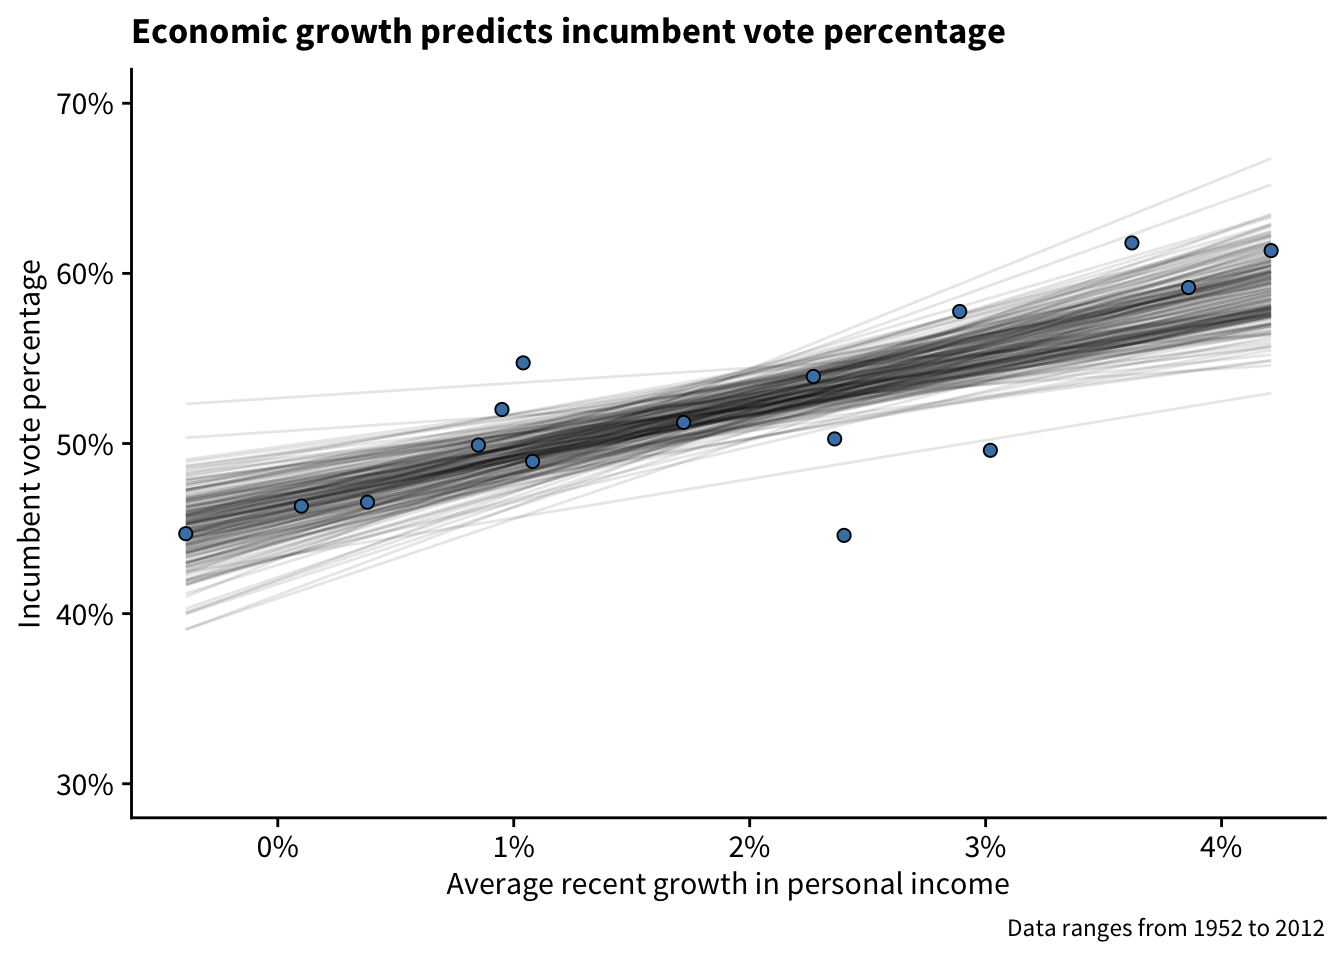
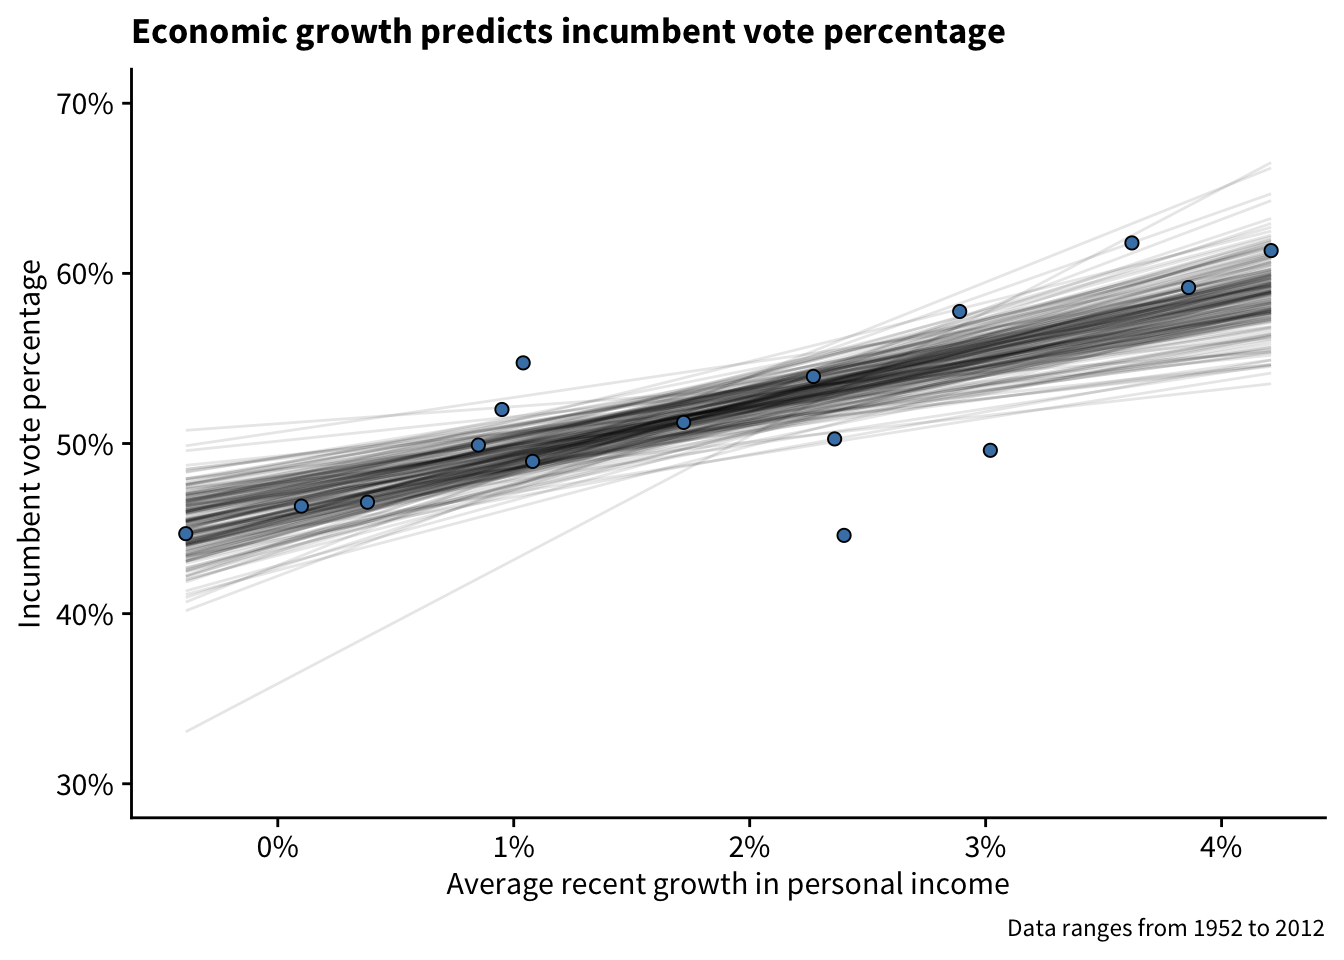
Edits

Changed region(s): [[0.125, 0.1562, 0.9688, 0.6562]]

diff --git a/_book/bias-and-variance.html b/_book/bias-and-variance.html
@@ -37,6 +37,7 @@
 <li><a class="" href="basic-probability-and-statistics.html"><span class="header-section-number">4</span> Basic Probability and Statistics</a></li>
 <li><a class="" href="statistical-inference.html"><span class="header-section-number">5</span> Statistical Inference</a></li>
 <li><a class="active" href="bias-and-variance.html"><span class="header-section-number">6</span> Bias and Variance</a></li>
+<li><a class="" href="basic-probability-and-statistics-1.html"><span class="header-section-number">7</span> Basic Probability and Statistics</a></li>
 </ul>
 
         <div class="book-extra">
@@ -230,7 +231,7 @@ Now let’s add in the random component. To every <span class="math inline">\(y\
 </div>
   <div class="chapter-nav">
 <div class="prev"><a href="statistical-inference.html"><span class="header-section-number">5</span> Statistical Inference</a></div>
-<div class="empty"></div>
+<div class="next"><a href="basic-probability-and-statistics-1.html"><span class="header-section-number">7</span> Basic Probability and Statistics</a></div>
 </div></main><div class="col-md-3 col-lg-2 d-none d-md-block sidebar sidebar-chapter">
     <nav id="toc" data-toggle="toc" aria-label="On this page"><h2>On this page</h2>
       <ul class="nav navbar-nav">

diff --git a/_book/overview.html b/_book/overview.html
@@ -37,6 +37,7 @@
 <li><a class="" href="basic-probability-and-statistics.html"><span class="header-section-number">4</span> Basic Probability and Statistics</a></li>
 <li><a class="" href="statistical-inference.html"><span class="header-section-number">5</span> Statistical Inference</a></li>
 <li><a class="" href="bias-and-variance.html"><span class="header-section-number">6</span> Bias and Variance</a></li>
+<li><a class="" href="basic-probability-and-statistics-1.html"><span class="header-section-number">7</span> Basic Probability and Statistics</a></li>
 </ul>
 
         <div class="book-extra">
@@ -96,7 +97,7 @@
 ## ------
 ##             Median MAD_SD
 ## (Intercept) 0.5    0.0   
-## growth      3.1    0.7   
+## growth      3.0    0.7   
 ## 
 ## Auxiliary parameter(s):
 ##       Median MAD_SD

diff --git a/_book/basic-probability-and-statistics.html b/_book/basic-probability-and-statistics.html
@@ -37,6 +37,7 @@
 <li><a class="active" href="basic-probability-and-statistics.html"><span class="header-section-number">4</span> Basic Probability and Statistics</a></li>
 <li><a class="" href="statistical-inference.html"><span class="header-section-number">5</span> Statistical Inference</a></li>
 <li><a class="" href="bias-and-variance.html"><span class="header-section-number">6</span> Bias and Variance</a></li>
+<li><a class="" href="basic-probability-and-statistics-1.html"><span class="header-section-number">7</span> Basic Probability and Statistics</a></li>
 </ul>
 
         <div class="book-extra">

diff --git a/_book/statistical-inference.html b/_book/statistical-inference.html
@@ -37,6 +37,7 @@
 <li><a class="" href="basic-probability-and-statistics.html"><span class="header-section-number">4</span> Basic Probability and Statistics</a></li>
 <li><a class="active" href="statistical-inference.html"><span class="header-section-number">5</span> Statistical Inference</a></li>
 <li><a class="" href="bias-and-variance.html"><span class="header-section-number">6</span> Bias and Variance</a></li>
+<li><a class="" href="basic-probability-and-statistics-1.html"><span class="header-section-number">7</span> Basic Probability and Statistics</a></li>
 </ul>
 
         <div class="book-extra">

diff --git a/_book/data-and-measurement.html b/_book/data-and-measurement.html
@@ -37,6 +37,7 @@
 <li><a class="" href="basic-probability-and-statistics.html"><span class="header-section-number">4</span> Basic Probability and Statistics</a></li>
 <li><a class="" href="statistical-inference.html"><span class="header-section-number">5</span> Statistical Inference</a></li>
 <li><a class="" href="bias-and-variance.html"><span class="header-section-number">6</span> Bias and Variance</a></li>
+<li><a class="" href="basic-probability-and-statistics-1.html"><span class="header-section-number">7</span> Basic Probability and Statistics</a></li>
 </ul>
 
         <div class="book-extra">

diff --git a/_book/index.html b/_book/index.html
@@ -37,6 +37,7 @@
 <li><a class="" href="basic-probability-and-statistics.html"><span class="header-section-number">4</span> Basic Probability and Statistics</a></li>
 <li><a class="" href="statistical-inference.html"><span class="header-section-number">5</span> Statistical Inference</a></li>
 <li><a class="" href="bias-and-variance.html"><span class="header-section-number">6</span> Bias and Variance</a></li>
+<li><a class="" href="basic-probability-and-statistics-1.html"><span class="header-section-number">7</span> Basic Probability and Statistics</a></li>
 </ul>
 
         <div class="book-extra">

diff --git a/_book/introduction.md b/_book/introduction.md
@@ -61,7 +61,7 @@ fit
 ## ------
 ##             Median MAD_SD
 ## (Intercept) 0.5    0.0   
-## growth      3.1    0.7   
+## growth      3.0    0.7   
 ## 
 ## Auxiliary parameter(s):
 ##       Median MAD_SD
